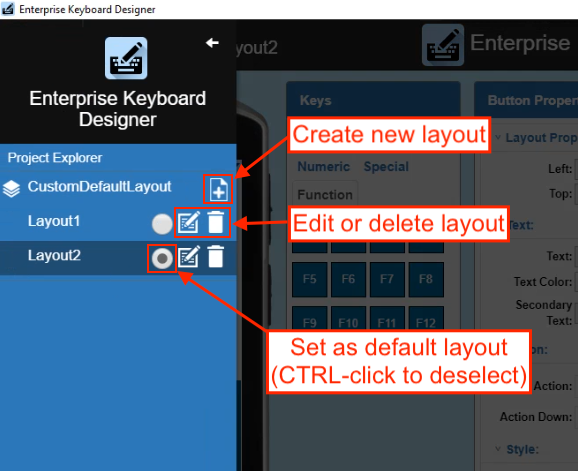
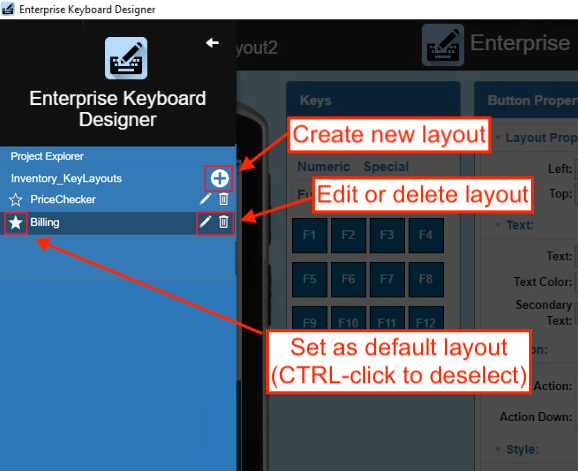
[TUT-35988] EKD 1.4 final, incl. validation inputs

Changed region(s): [[0.0, 0.2675, 0.9343, 0.7134]]

diff --git a/ekd/1-4/guide/usage/index.html b/ekd/1-4/guide/usage/index.html
@@ -356,7 +356,7 @@
 <li><strong>Repeat Step 7</strong> until the layout is configured as desired. </li>
 
 <li><strong>Click "Save Layout" button</strong> to store the project settings.<br>
-<strong>NOTE</strong>: To set layout as the default (to appear whenever EKB is used), click on the layout's radio button:
+<strong>NOTE</strong>: To set layout as the default (to appear whenever EKB is used), click on the layout's star icon:
 <img alt="" style="height:150px" src="EKD_14_set_default_layout.png"></li>
 
 <li><strong>Click "Save Project" to create a project file for deployment</strong>.</li>
@@ -429,7 +429,7 @@
 <li><strong>Repeat Step 6</strong> until all buttons in the layout are configured as desired. </li>
 
 <li><strong>Click "Save Layout" button</strong> to store the project settings.<br>
-<strong>NOTE</strong>: To set layout as the default (to appear whenever EKB is used), click on the layout's radio button:
+<strong>NOTE</strong>: To set layout as the default (to appear whenever EKB is used), click on the layout's star icon:
 <img alt="" style="height:150px" src="EKD_14_set_default_layout.png"></li>
 
 <li><strong>Click "Save Project" to create a project file for deployment</strong>.
@@ -592,28 +592,30 @@
 
 
 <ul>
-<li><strong>key in caps -</strong> Outputs an upper-case letter corresponding to the keyValue entered </li>
+<li><strong>key in caps -</strong> Outputs an upper-case letter corresponding to the keyValue entered.</li>
 
-<li><strong>key -</strong> Outputs the lower-case character corresponding to the keyValue entered</li>
+<li><strong>key -</strong> Outputs the lower-case character corresponding to the keyValue entered.</li>
 
-<li><strong>UC -</strong> Outputs the Unicode character corresponding to the Unicode value entered</li></ul>
+<li><strong>"Canned text" -</strong> displays a list of <a href="#predefinedresponses">predefined responses</a> (see below).</li>
+
+<li><strong>UC -</strong> Outputs the Unicode character corresponding to the Unicode value entered.</li></ul>
 </li>
 
 <li><strong>Actions to switch the layout -</strong> Use the key-value pairs below to switch to a specific layout. 
 
 
 <ul>
-<li><strong>Switch-abc -</strong> Switches to the Enterprise Keyboard standard alpha-numeric layout</li>
+<li><strong>Switch-abc -</strong> Switches to the Enterprise Keyboard standard alpha-numeric layout.</li>
 
-<li><strong>Switch-123 -</strong> Switches to the fixed numeric layout</li>
+<li><strong>Switch-123 -</strong> Switches to the fixed numeric layout.</li>
 
-<li><strong>Switch-Scan -</strong> Switches to the “scanning button" layout</li>
+<li><strong>Switch-Scan -</strong> Switches to the “scanning button" layout.</li>
 
-<li><strong>Switch-#*/ -</strong> Switches to the “#*/” (symbolic) layout</li>
+<li><strong>Switch-#*/ -</strong> Switches to the “#*/” (symbolic) layout.</li>
 
-<li><strong>Switch-CustomLayout -</strong> Switches to a custom layout (enter a valid layout name in the pop-up)</li>
+<li><strong>Switch-CustomLayout -</strong> Switches to a custom layout (enter a valid layout name in the pop-up).</li>
 
-<li><strong>Scan Trigger -</strong> Scans a barcode using DataWedge, which must be configured in advance of this command. See <a href="/datawedge/latest/guide/utilities/ekb/">DataWedge documentation</a> for more information. <strong>Supported only with Press Action</strong></li></ul>
+<li><strong>Scan Trigger -</strong> Scans a barcode using DataWedge, which must be configured in advance of this command. See <a href="/datawedge/latest/guide/utilities/ekb/">DataWedge documentation</a> for more information. <strong>Supported only with Press Action</strong>.</li></ul>
 </li>
 </ul>
 
@@ -661,7 +663,9 @@
 
 <h3 id="predefinedresponses" class="anchor"><a class="heading-anchor" href="#predefinedresponses"><span></span></a>Predefined Responses</h3>
 
-<p>Predefined responses can be added to any key and appear in a pop-up list for easy selection when that key is pressed, improving the speed and accuracy of responses when using Enterprise Keyboard. Tapping on a predefined response enters the text into the focused field as if it had been typed in manually. </p>
+<p>A list of predefined responses can be assigned to any key and appears in a pop-up list when that key is pressed. This can help improve the speed and accuracy of responses when using Enterprise Keyboard. Tapping on a predefined response enters the text into the focused field as if it had been typed in manually. </p>
+
+<p><code>IMPORTANT:</code> <strong>Use of the plus sign (+) in predefined responses can result in unpredictable behavior</strong>. </p>
 
 <p><strong>Example Responses</strong>:</p>
 
@@ -692,7 +696,8 @@
 <br></li>
 
 <li><strong>Enter a desired response</strong> in the pop-up:
-<img alt="" style="height:150px" src="EKD-14_pre-defined_text_2.png"></li>
+<img alt="" style="height:150px" src="EKD-14_pre-defined_text_2.png">
+<code>IMPORTANT:</code> <strong>Use of the plus sign (+) in predefined responses can result in unpredictable behavior</strong>. <br></li>
 
 <li>Click "Add" to store the response and add another.</li>
 
@@ -701,7 +706,7 @@
 <li>Click "Save" to store all responses and exit pop-up.</li>
 
 <li><strong>Click "Save Layout" button</strong> to store the new project settings.<br>
-<strong>NOTE</strong>: To set layout as the default (to appear whenever EKB is used), click on the layout's radio button:
+<strong>NOTE</strong>: To set layout as the default (to appear whenever EKB is used), click on the layout's star icon:
 <img alt="" style="height:150px" src="EKD_14_set_default_layout.png"></li>
 
 <li><strong>Click "Save Project" to create a project file for deployment</strong>.
@@ -738,14 +743,15 @@ A pop-up appears with the list of responses currently stored with that button:
 <img alt="" style="height:250px" src="edit_predefined_message_2.png">
 <em>Click image to enlarge, ESC to exit</em>.</li>
 
-<li><strong>Edit the response</strong> as desired and <strong>click Submit</strong>.</li>
+<li><strong>Edit the response</strong> as desired and <strong>click Submit</strong>.<br>
+<code>IMPORTANT:</code> <strong>Use of the plus sign (+) in predefined responses can result in unpredictable behavior</strong>. </li>
 
 <li><strong>Repeat Steps 5 and 6</strong> until all predefined responses appear as desired.  </li>
 
 <li><strong>Click Save to store changes and exit the pop-up</strong>. </li>
 
 <li><strong>Click "Save Layout" button</strong> to store the new project settings.<br>
-<strong>NOTE</strong>: To set layout as the default (to appear whenever EKB is used), click on the layout's radio button:
+<strong>NOTE</strong>: To set layout as the default (to appear whenever EKB is used), click on the layout's star icon:
 <img alt="" style="height:150px" src="EKD_14_set_default_layout.png"></li>
 
 <li><strong>Click "Save Project" to create a project file for deployment</strong>.
